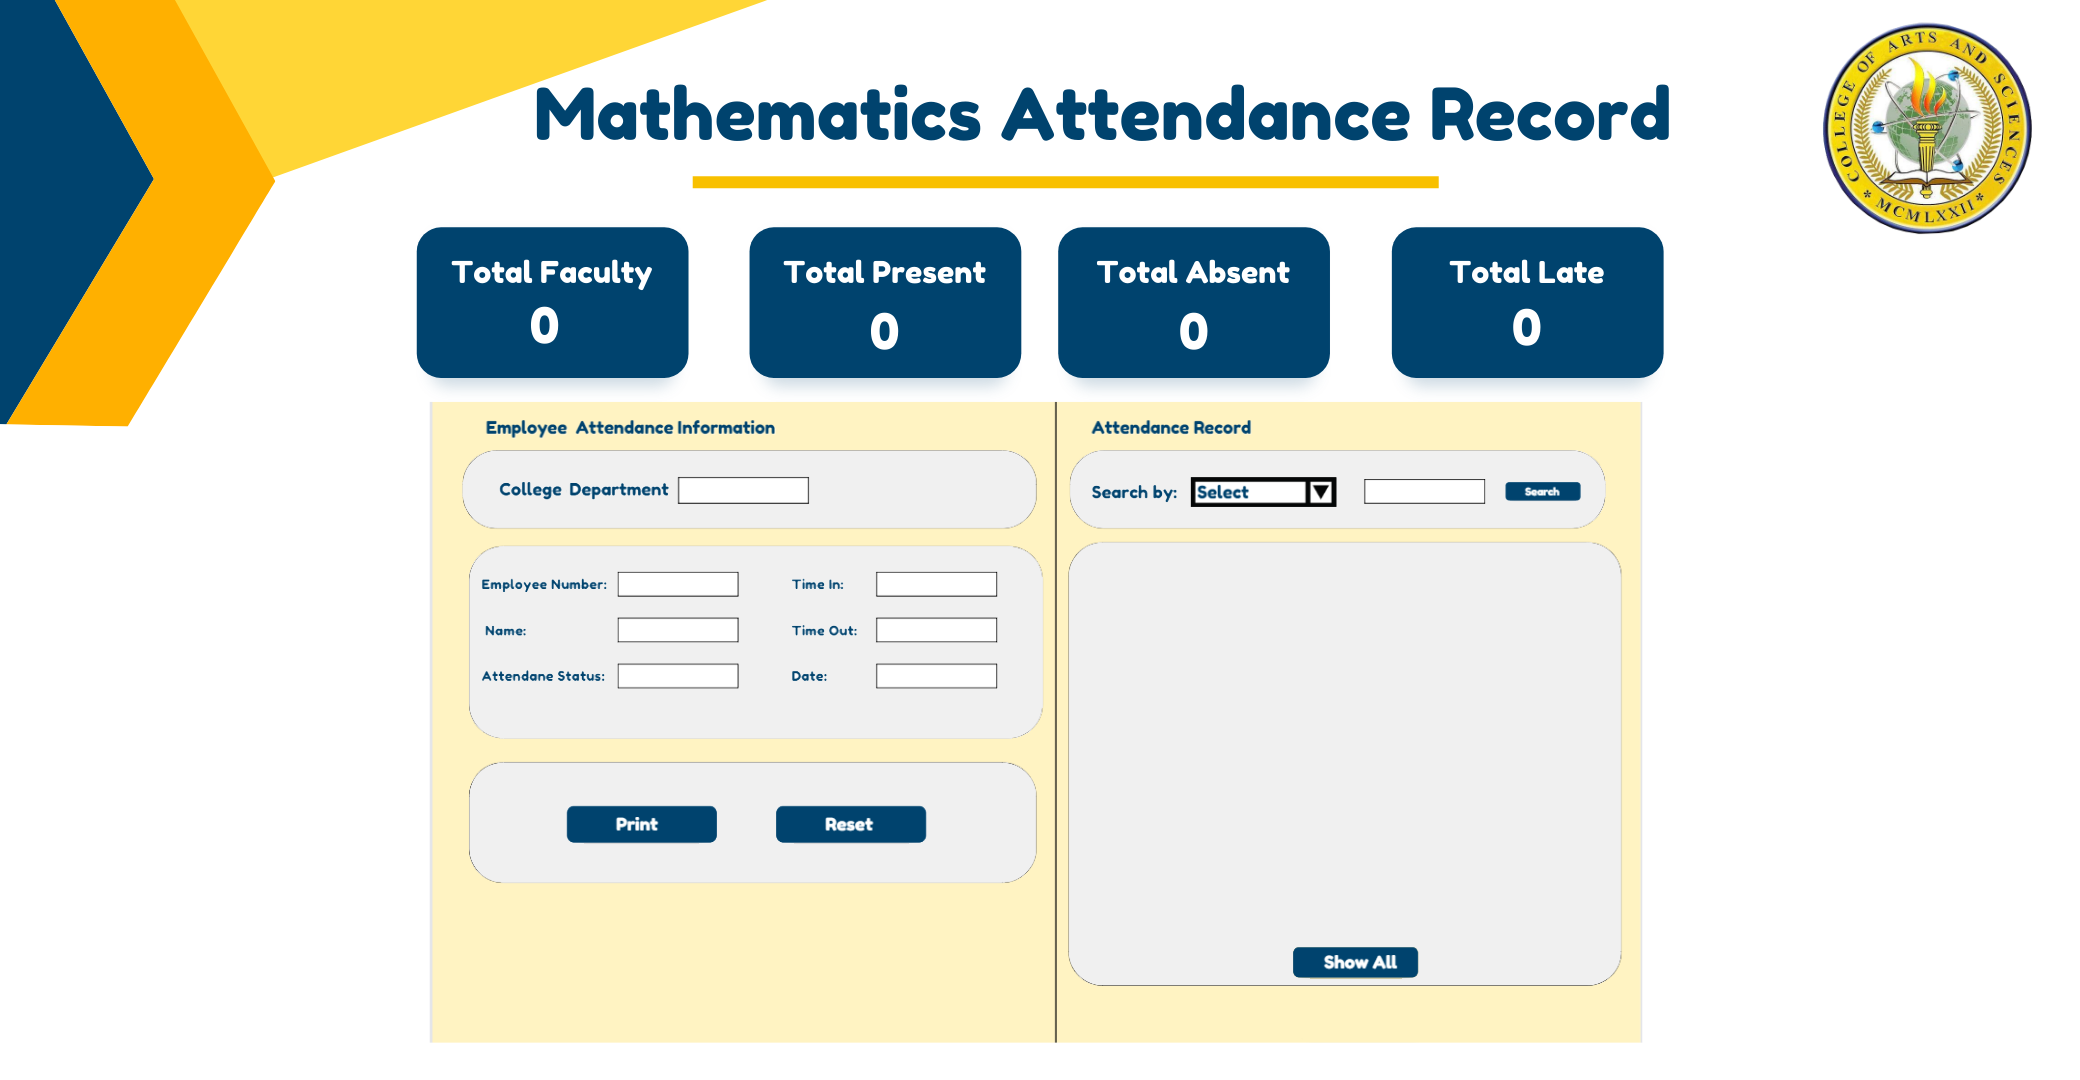
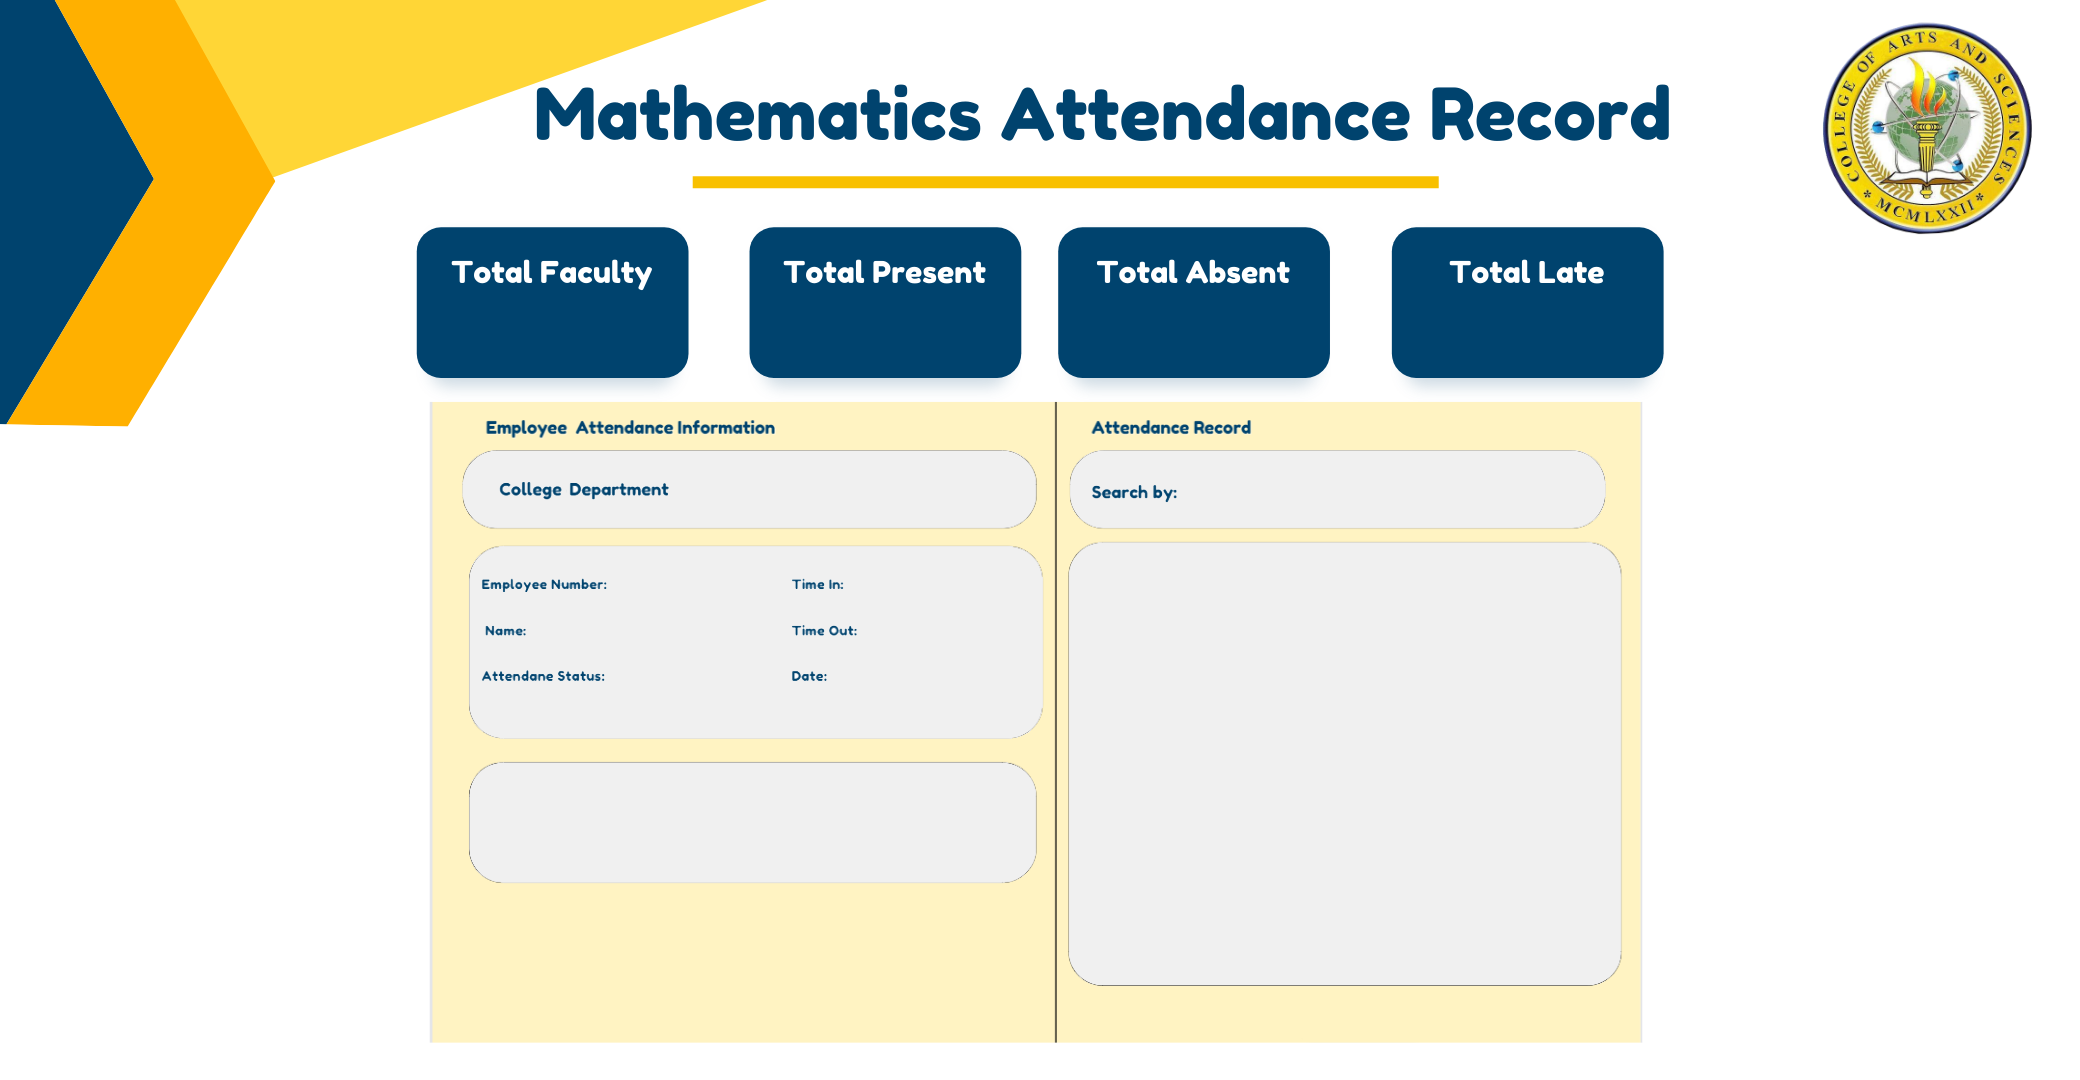
updated

diff --git a/face_recog.py b/face_recog.py
@@ -605,6 +605,56 @@ def new_win():
     mathematics_att_record.math_rec_bg_img_lb = Label(mathematics_att_record, image = mathematics_att_record.photo)
     mathematics_att_record.math_rec_bg_img_lb.pack()
 
+         # Data Table "TreeView"
+    scrollbarx_math_rec = Scrollbar(mathematics_att_record, orient=HORIZONTAL)
+    scrollbarx_math_rec.place(x=710, y=584, width=347)
+    scrollbary_math_rec = Scrollbar(mathematics_att_record, orient=VERTICAL)
+    scrollbary_math_rec.place(x=1040, y=366, height=219)
+
+    # style = ttk.Style()
+    # style.configure("Treeview.Heading", font=("yu gothic ui", 10, "bold"))
+
+    data_table_math_rec = ttk.Treeview(mathematics_att_record)
+    data_table_math_rec.place(x=710, y=366, width=330, height=219)
+    data_table_math_rec.configure(yscrollcommand=scrollbary_math_rec.set, xscrollcommand=scrollbarx_math_rec.set)
+
+    scrollbarx_math_rec.configure(command=data_table_math_rec.xview)
+    scrollbary_math_rec.configure(command=data_table_math_rec.yview)
+
+    data_table_math_rec['columns'] = ("Employee No.","Name","Department","Time in","Time out","Status")
+    # Format Columns
+    data_table_math_rec.column("#0", width=0, stretch=NO)
+    data_table_math_rec.column("Employee No.", anchor=W, width=150)
+    data_table_math_rec.column("Name", anchor=W, width=100)
+    data_table_math_rec.column("Department", anchor=W, width=200)
+    data_table_math_rec.column("Time in", anchor=W, width=100)
+    data_table_math_rec.column("Time out", anchor=W, width=100)
+    data_table_math_rec.column("Status", anchor=W, width=200)
+
+    # Create Headings
+    data_table_math_rec.heading("Employee No.", text="Employee No.", anchor=CENTER)
+    data_table_math_rec.heading("Name", text="Name", anchor=CENTER)
+    data_table_math_rec.heading("Department", text="Department", anchor=CENTER)
+    data_table_math_rec.heading("Time in", text="Time in", anchor=CENTER)
+    data_table_math_rec.heading("Time out", text="Time out", anchor=CENTER)
+    data_table_math_rec.heading("Status", text="Status", anchor=CENTER)
+
+        # Total Faculty Label
+    total_faculty_lb_math_rec = Label(mathematics_att_record, text='1', fg='white', bg ='#00436e', font = "Heltvetica 27 bold")
+    total_faculty_lb_math_rec.place(x=347, y=190)
+
+        # Total Present Label
+    total_present_lb_math_rec = Label(mathematics_att_record, text='1', fg='white', bg ='#00436e', font = "Heltvetica 27 bold")
+    total_present_lb_math_rec.place(x=565, y=190)
+
+        # Total Absent Label
+    total_absent_lb_math_rec = Label(mathematics_att_record, text='1', fg='white', bg ='#00436e', font = "Heltvetica 27 bold")
+    total_absent_lb_math_rec.place(x=772, y=190)
+
+        # Total Late Label
+    total_late_lb_math_rec = Label(mathematics_att_record, text='1', fg='white', bg ='#00436e', font = "Heltvetica 27 bold")
+    total_late_lb_math_rec.place(x=990, y=190)
+
         # ComboBox College Department
     math_rec_department_combobox = ttk.Combobox(mathematics_att_record, state=DISABLED, values=["Mathematics", "ITE", "Psychology", "Applied Physics"])
     math_rec_department_combobox.place(x=445, y=305, width=200)
@@ -639,10 +689,28 @@ def new_win():
     search_math_rec.place(x=780, y=307, width=190)
 
         # Search Button
-    search_btn_math_rec = PhotoImage(file = "pic/btn_search.png")
+    search_btn_math_rec = PhotoImage(file = "pic/btn_search_small.png")
     math_rec_button_search = customtkinter.CTkButton(master=mathematics_att_record,image=search_btn_math_rec, text="" ,
-                                                corner_radius=6,bg='#ffffff', fg_color="#00436e",hover_color="#006699", command= search_data)
+                                                corner_radius=3,bg='#ffffff', fg_color="#00436e",hover_color="#006699", command= search_data)
     math_rec_button_search.place(x=975, y=307, height=17,width=70)
+
+        # Show All Button
+    showall_btn_math_rec = PhotoImage(file = "pic/btn_showall_small.png")
+    math_rec_button_showall = customtkinter.CTkButton(master=mathematics_att_record,image=showall_btn_math_rec, text="" ,
+                                                corner_radius=3,bg='#ffffff', fg_color="#00436e",hover_color="#006699", command= refreshTable)
+    math_rec_button_showall.place(x=843, y=608, height=21,width=90)
+
+        # Reset Button
+    reset_btn_math_rec = PhotoImage(file = "pic/btn_reset_small.png")
+    math_rec_button_reset = customtkinter.CTkButton(master=mathematics_att_record,image=reset_btn_math_rec, text="" ,
+                                                corner_radius=3,bg='#ffffff', fg_color="#00436e",hover_color="#006699", command= clear)
+    math_rec_button_reset.place(x=510, y=519, height=25,width=100)
+
+        # Print Button
+    print_btn_math_rec = PhotoImage(file = "pic/btn_print.png")
+    math_rec_button_print = customtkinter.CTkButton(master=mathematics_att_record,image=print_btn_math_rec, text="" ,
+                                                corner_radius=3,bg='#ffffff', fg_color="#00436e",hover_color="#006699", command= clear)
+    math_rec_button_print.place(x=372, y=519, height=25,width=100)
 
     main_window.mainloop()
 
